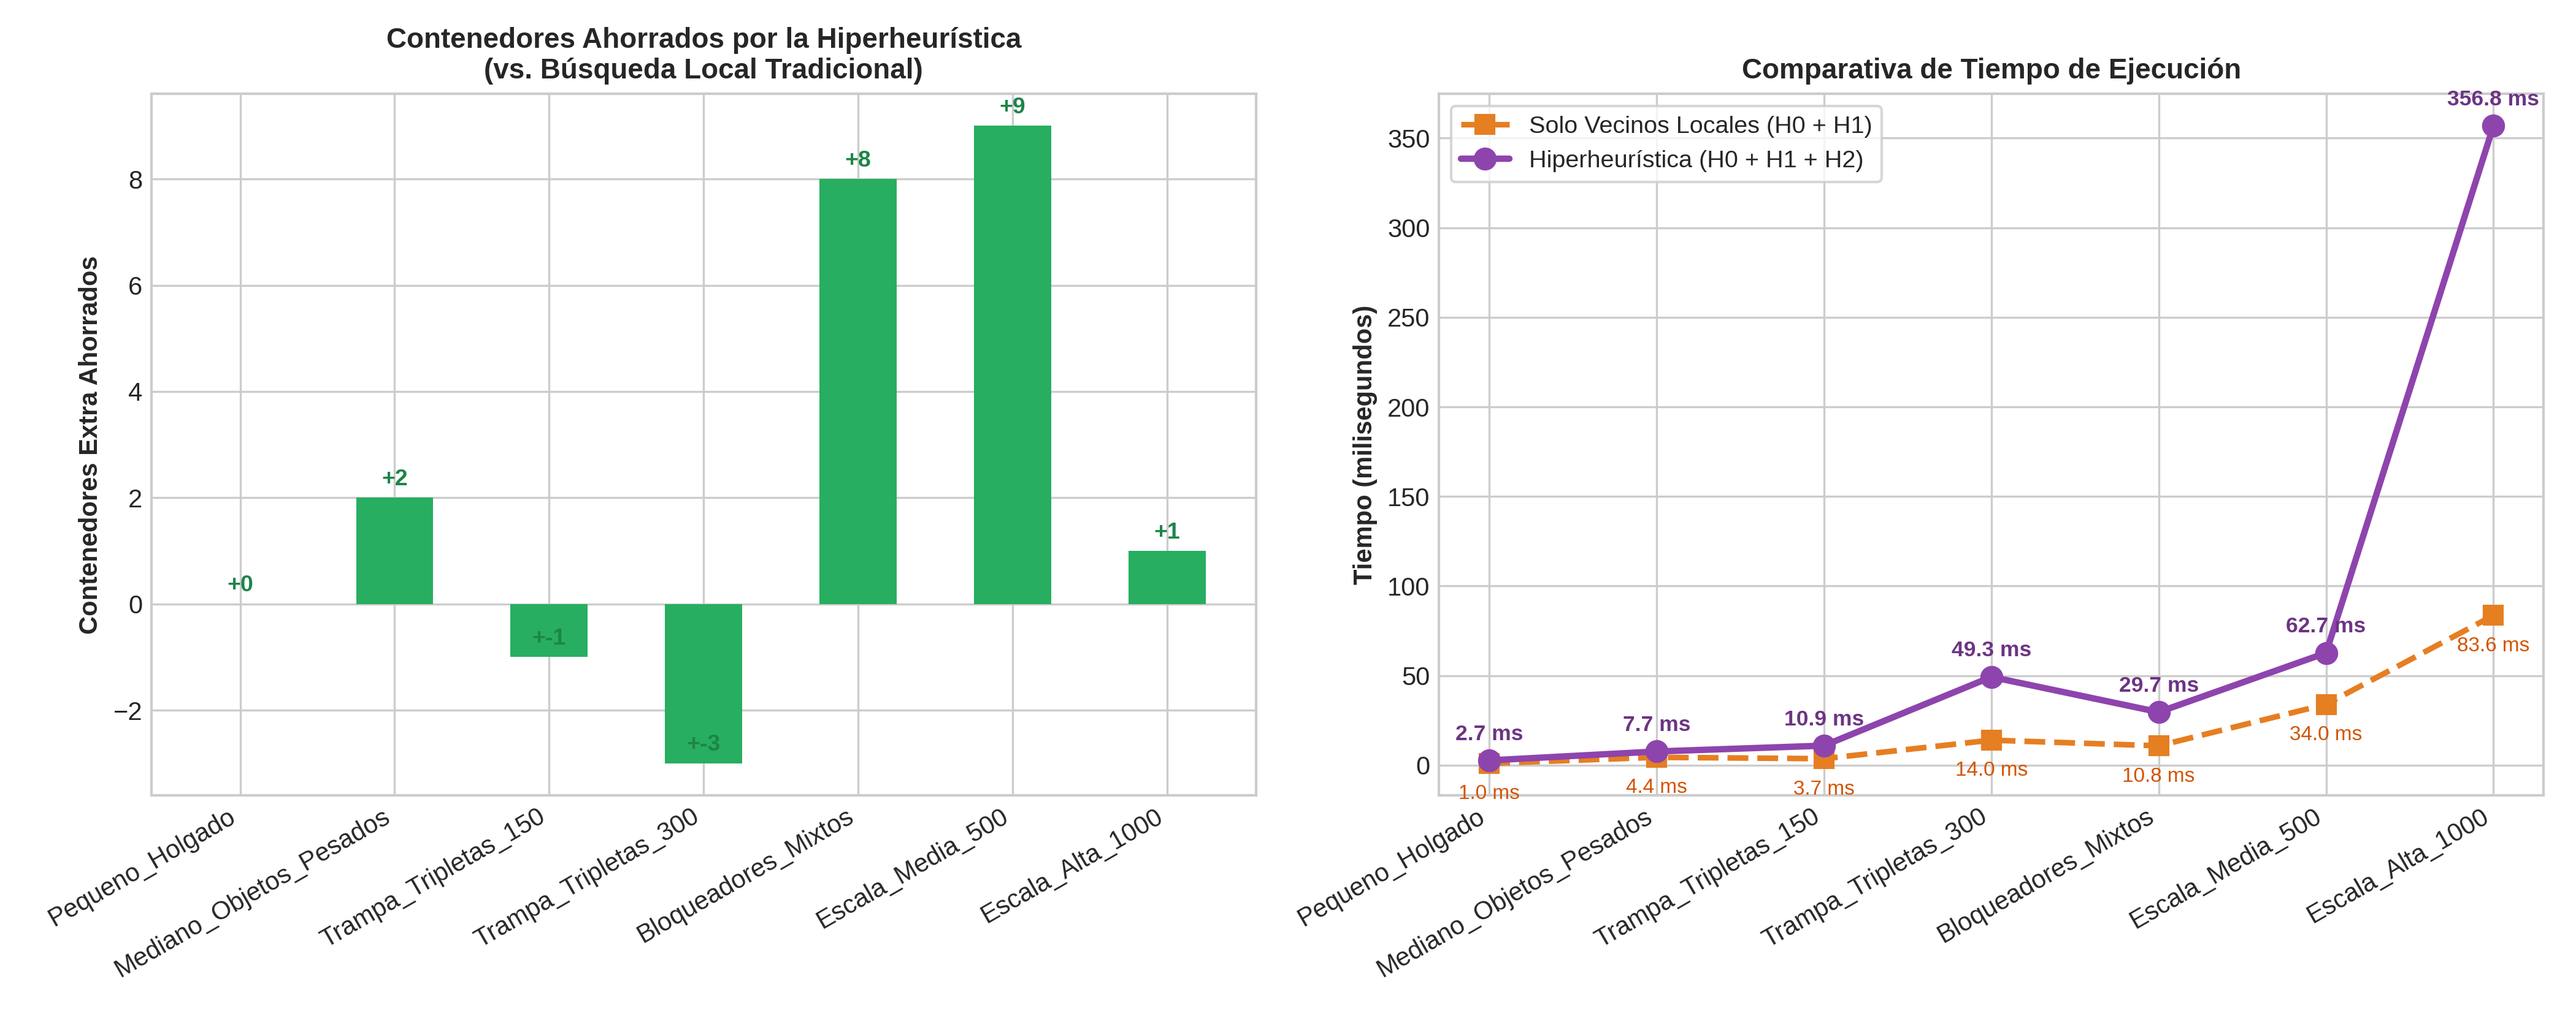
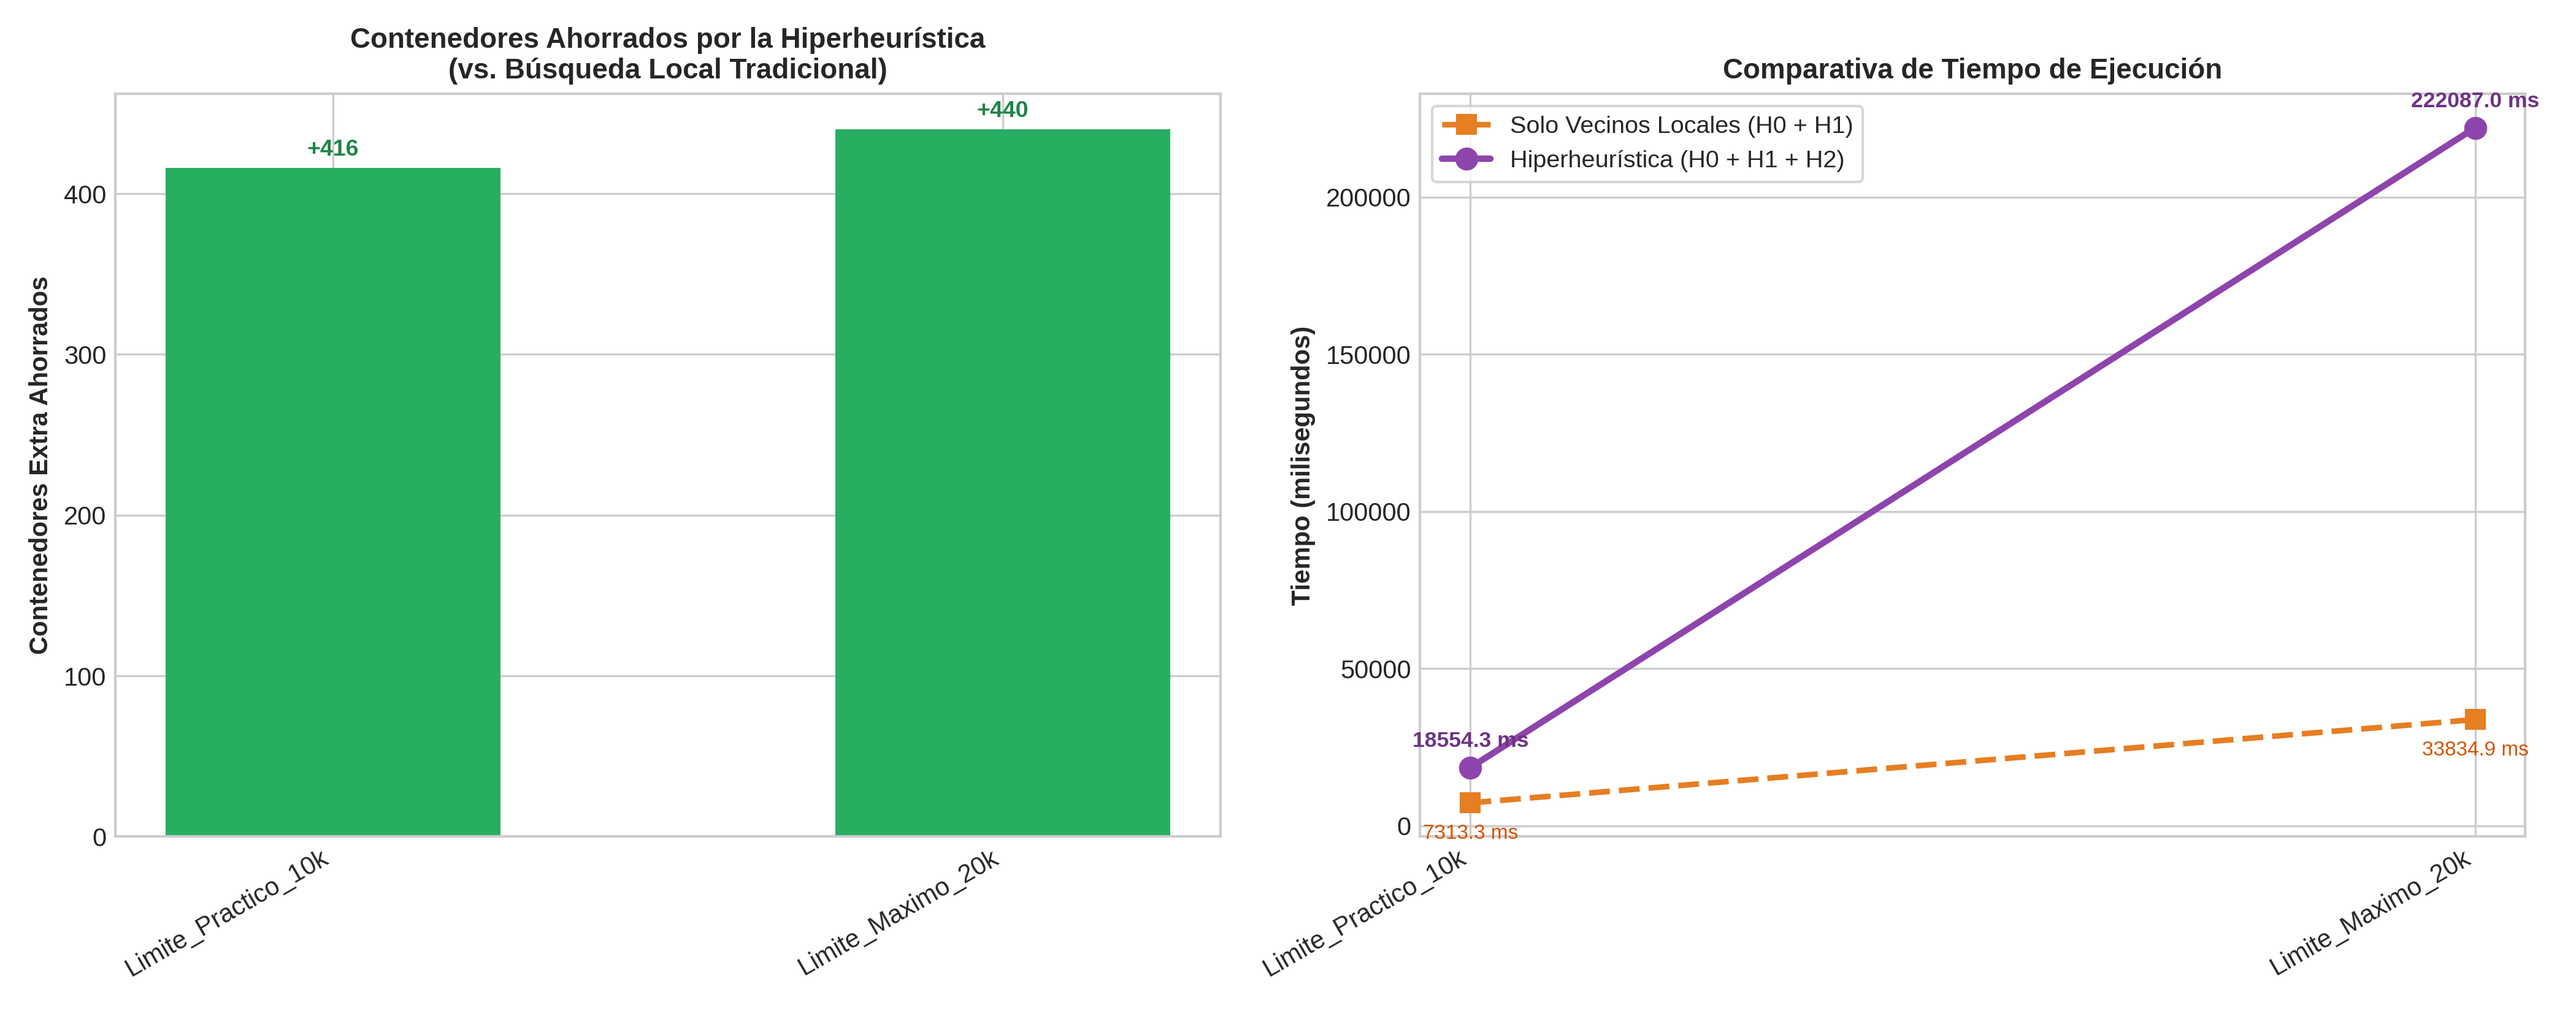
Pruebas

diff --git a/README.md b/README.md
@@ -1,1 +1,98 @@
-# Hiperheuristica
+# Optimización de Empaquetamiento (Bin Packing 1D) mediante Hiperheurísticas en C++
+
+Este proyecto implementa una arquitectura modular de **Hiperheurística de Selección** en C++17 aplicada al problema de empaquetamiento en contenedores (*1D Bin Packing Problem*). 
+
+El objetivo es demostrar cómo un selector de alto nivel puede escapar de óptimos locales profundos combinando **vecinos locales simples** con un **vecino estructural no trivial** (*Ruin & Recreate + First-Fit Decreasing*), respetando estrictamente la **barrera de dominio**.
+
+---
+
+## Arquitectura del Proyecto
+
+```text
+proyecto_hiperheuristica/
+├── CMakeLists.txt               # Configuración de compilación con CMake
+├── .gitignore                   # Exclusión de binarios, cachés y entornos virtuales
+├── include/                     # Archivos de cabecera (.hpp)
+│   ├── ProblemDomain.hpp        # Interfaz pura (Barrera de dominio)
+│   ├── BinPackingDomain.hpp     # Definición del problema y heurísticas de bajo nivel
+│   └── HyperHeuristic.hpp       # Definición del motor selector adaptativo
+├── src/                         # Implementaciones (.cpp)
+│   ├── BinPackingDomain.cpp     # Lógica de empaquetamiento y operadores de vecindad
+│   ├── HyperHeuristic.cpp       # Lógica de puntuación, aceptación y decaimiento
+│   └── main.cpp                 # Ejecución del benchmark y exportación a CSV
+├── pruebas/
+│   └── escenarios.csv           # Instancias de prueba configurables
+├── resultados/
+│   └── comparativa.csv          # Métricas generadas automáticamente tras la ejecución
+├── tools/
+│   └── graficar_resultados.py   # Script en Python para generar gráficos comparativos
+└── figuras/                     # Gráficos exportados en alta resolución (PNG)
+```
+
+### Heurísticas de Bajo Nivel Implementadas
+1. **`H0` (Vecino Local Directo):** Mueve un objeto aleatorio hacia otro contenedor con capacidad disponible.
+2. **`H1` (Vecino Local Directo):** Intercambia dos objetos entre dos contenedores distintos respetando la capacidad máxima.
+3. **`H2` (Vecino Estructural No Trivial):** *Ruin & Recreate parcial*. Destruye los contenedores con menor porcentaje de ocupación, ordena los objetos liberados de mayor a menor peso y los reinserta mediante *First-Fit Decreasing (FFD)*.
+
+---
+
+## Compilación y Ejecución (C++)
+
+Puedes compilar el proyecto utilizando **CMake** o directamente con el compilador **`g++` / `clang++`** si no tienes CMake instalado.
+
+### Opción 1: Compilación usando CMake (Recomendado)
+
+**En Linux / macOS:**
+```bash
+mkdir -p build && cd build
+cmake ..
+cmake --build .
+./hh_demo
+```
+
+**En Windows (PowerShell):**
+```powershell
+mkdir build -Force
+cd build
+cmake ..
+cmake --build .
+.\Debug\hh_demo.exe
+```
+
+### Opción 2: Compilación directa sin CMake (usando `g++`)
+
+Desde la raíz del proyecto, compila todos los archivos fuente indicando la carpeta `-Iinclude`:
+
+**En Linux / macOS:**
+```bash
+g++ -std=c++17 -O2 -Iinclude src/main.cpp src/BinPackingDomain.cpp src/HyperHeuristic.cpp -o hh_demo
+./hh_demo
+```
+
+**En Windows (MinGW / PowerShell / CMD):**
+```powershell
+g++ -std=c++17 -O2 -Iinclude src/main.cpp src/BinPackingDomain.cpp src/HyperHeuristic.cpp -o hh_demo.exe
+.\hh_demo.exe
+```
+
+---
+
+## Generación de Gráficos
+
+Una vez generado `resultados/comparativa.csv`, crea un entorno virtual y ejecuta el script de visualización:
+
+**En Windows (PowerShell):**
+```powershell
+python -m venv .venv
+.\.venv\Scripts\Activate.ps1
+pip install pandas matplotlib
+python tools/graficar_resultados.py
+```
+
+**En Linux / macOS:**
+```bash
+python3 -m venv .venv
+source .venv/bin/activate
+pip install pandas matplotlib
+python tools/graficar_resultados.py
+```
